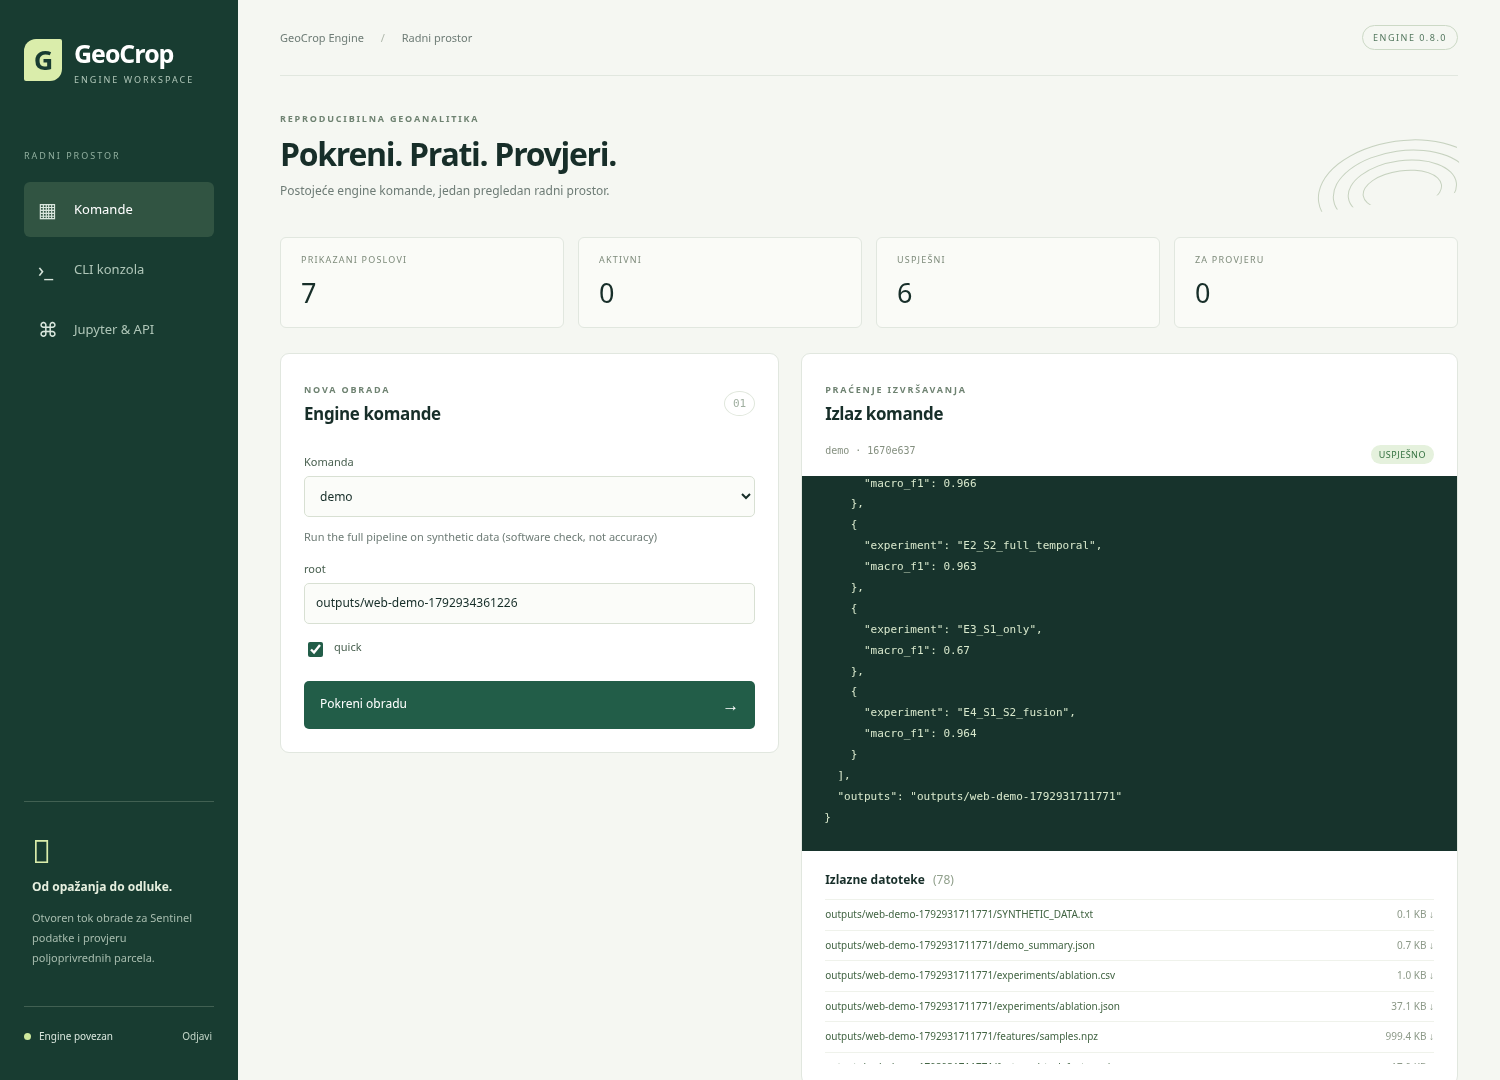
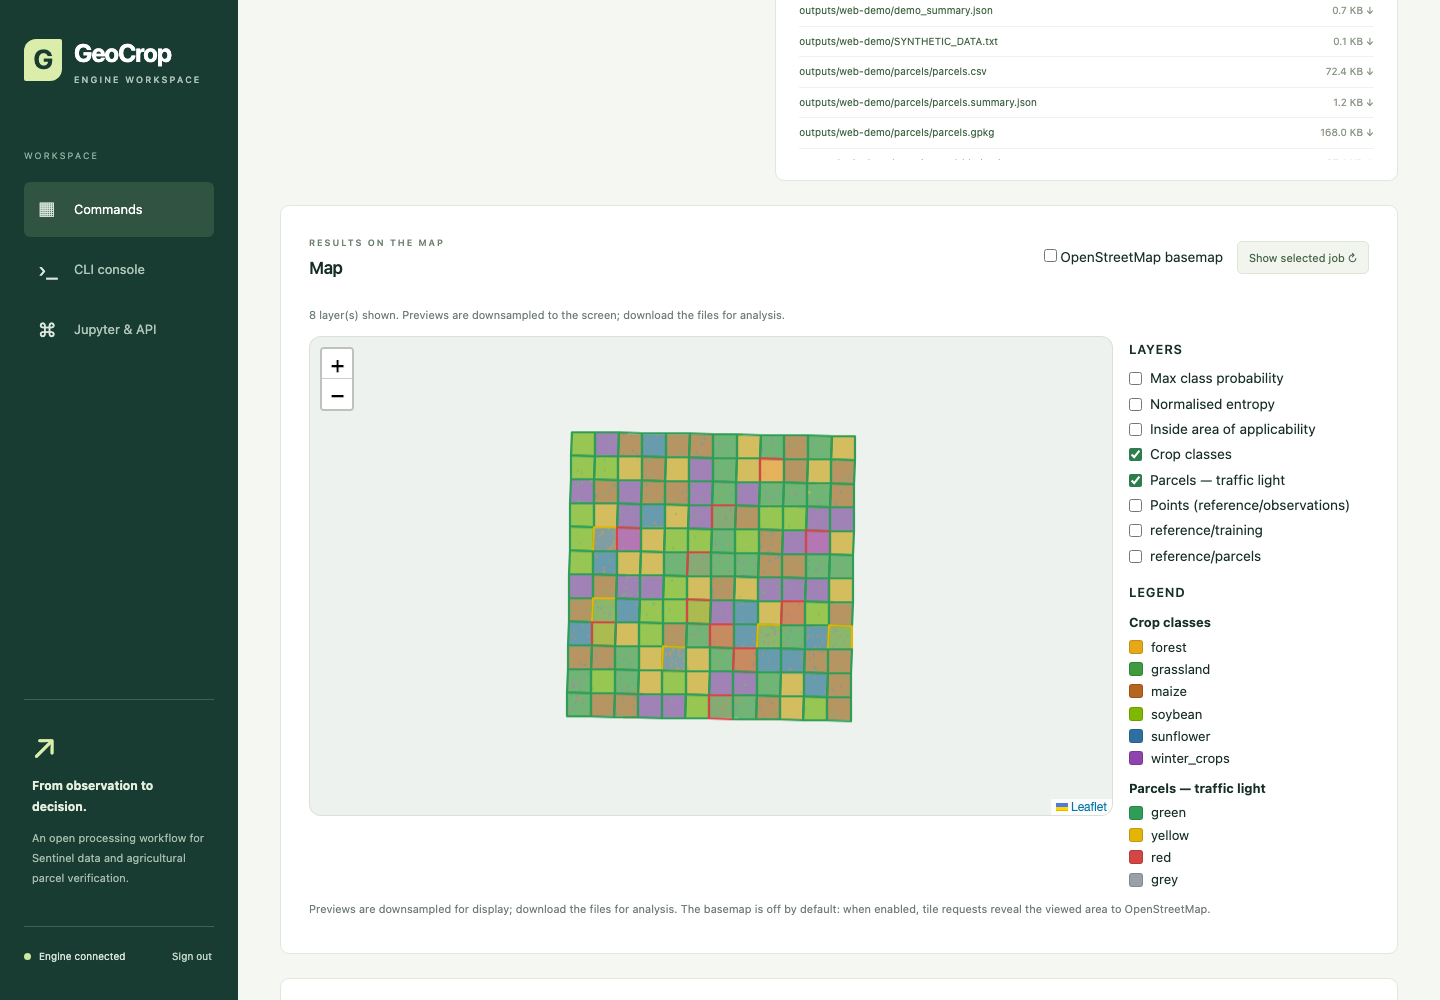
Refresh web screenshot (English interface with map) and document the results map

diff --git a/docs/web-interface.md b/docs/web-interface.md
@@ -103,3 +103,19 @@ or output locations, 401 missing/incorrect authentication, 403 cross-origin requ
 jobs/artifacts. Typed request validation can return 422. A job with engine exit code 0 succeeds; any
 other code is recorded as failed, including audit/readiness commands that intentionally use nonzero
 exit codes to report data problems. Use the logs to distinguish those outcomes.
+
+## Results map
+Selecting a succeeded job loads its spatial outputs on the **Map** card (`GET /api/jobs/{id}/map`):
+
+| Layer | Source | Default |
+|---|---|---|
+| Crop classes | `classes.tif` + `class_legend.json` | on |
+| Parcels — traffic light | parcel results with `traffic_light` (outline colour green/yellow/red/grey, popup with declared/predicted class, status and confidence) | on |
+| Max class probability, normalised entropy | `uncertainty.tif` bands 1 and 3 | off |
+| Inside area of applicability | `aoa.tif` band 2 | off |
+| Other vector outputs (segments, reference layers, observations) | `.gpkg` / `.geojson` | off |
+
+Rasters are warped to WGS 84 and downsampled (≤ 1024 px) into PNG previews; vectors are simplified and capped at
+20,000 features. Previews are for orientation only — download the files for analysis. Leaflet is bundled with the
+package (no CDN). The OpenStreetMap basemap is off by default; enabling it sends tile requests for the viewed area to
+OpenStreetMap.
